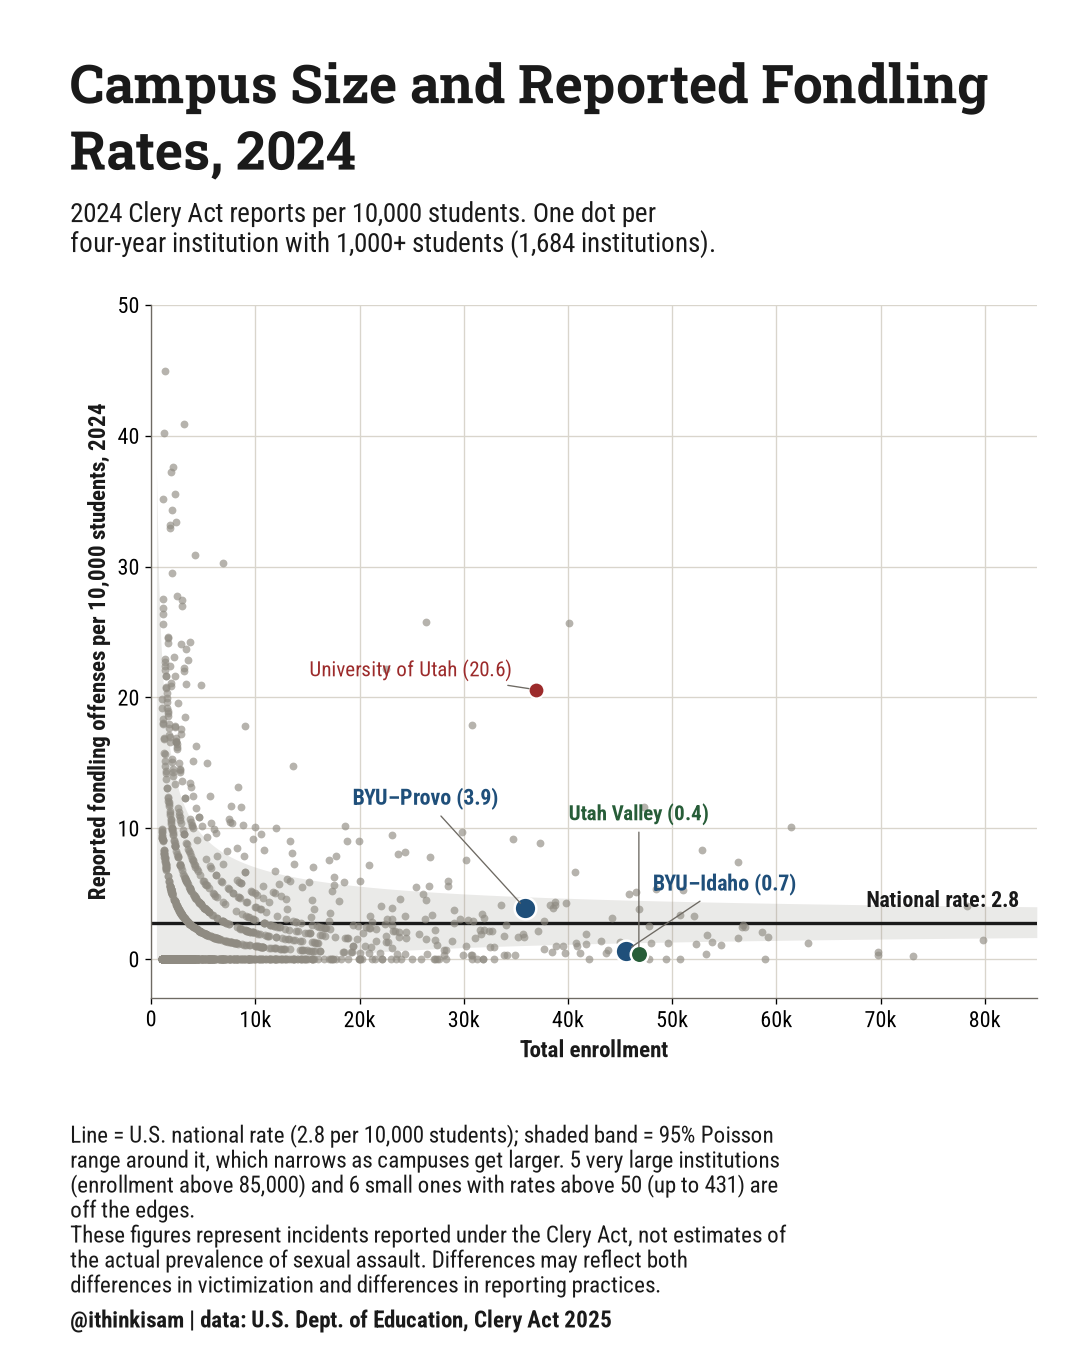
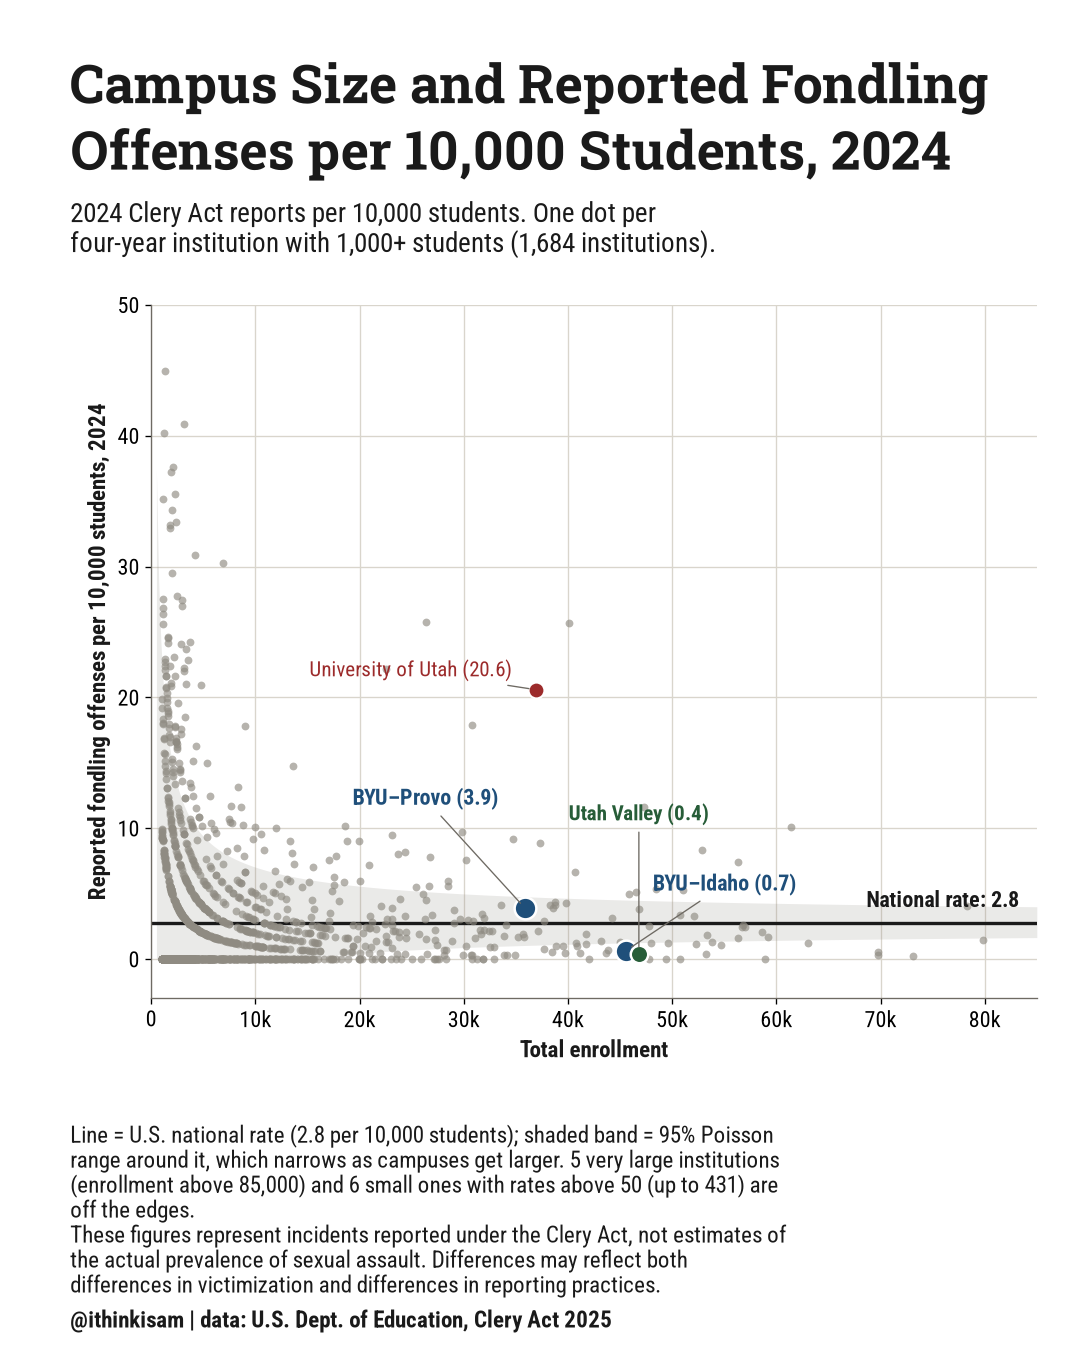
Fondling 2024 rate scatter: title says per 10,000 students (#54)

Changed region(s): [[0.0611, 0.0933, 0.8861, 0.1556]]

diff --git a/src/lib/data-explorer.ts b/src/lib/data-explorer.ts
@@ -2541,7 +2541,7 @@ function cleryFondlingGraphics(): Graphic[] {
       "Scatter plot of enrollment against the 2022-2024 average annual reported on-campus fondling offenses with a line for the pooled national rate and a band that narrows as campuses grow. An arrow at the top marks Ohio State (160), which is off the chart. The University of Utah (57, red), Indiana University Indianapolis and Florida Institute of Technology sit far above the line. BYU (15.7, blue), Cornell (red) and Utah Valley University (green) are labeled.",
     ),
     mk(
-      "Fondling: campus size and reported rates, 2024",
+      "Fondling: campus size and reported offenses per 10,000 students, 2024",
       "Each four-year institution with 1,000+ students: enrollment against 2024 reported on-campus fondling offenses per 10,000 students.",
       "campus-size-vs-reported-fondling-rate-2024.png",
       "Scatter plot of enrollment against 2024 reported on-campus fondling offenses per 10,000 students, with a flat line at the national rate of 2.8 and a band that narrows as campuses grow. BYU-Provo (3.9) and BYU-Idaho (0.7) are blue, Utah Valley University (0.4) is green, and the University of Utah (20.6) is red.",

diff --git a/scripts/clery-campus-safety-2025/render.py b/scripts/clery-campus-safety-2025/render.py
@@ -384,7 +384,7 @@ def rate_scatter_3yr_chart(out, fonts, period="3yr"):
     fig = plt.figure(figsize=(FIG_W_IN, FIG_H_IN), dpi=DPI)
     fig.patch.set_facecolor(PAPER)
     sub_bottom = _draw_title(fig, fonts, "Campus Size and Average Reported Rape Rates, 2022" + chr(0x2013) + "2024" if three
-                             else "Campus Size and Reported Rape Rates, 2024",
+                             else "Campus Size and Reported Rapes per 10,000 Students, 2024",
                              ("Three-year Clery Act average per 10,000 students. One dot per" if three
                               else "2024 Clery Act reports per 10,000 students. One dot per") + chr(10) +
                              f"four-year institution with 1,000+ students ({len(pts):,} institutions).")
